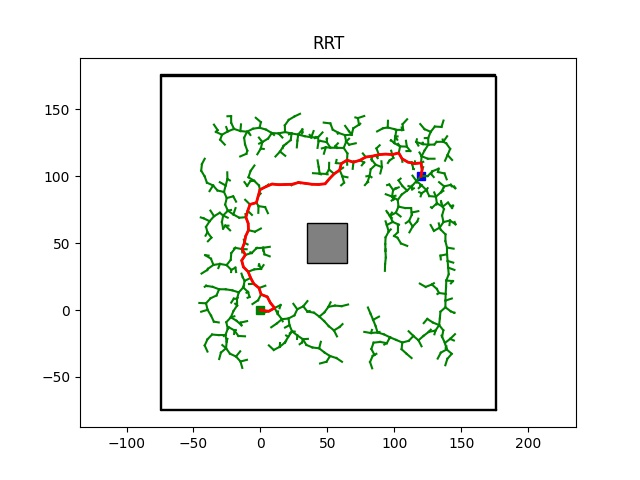
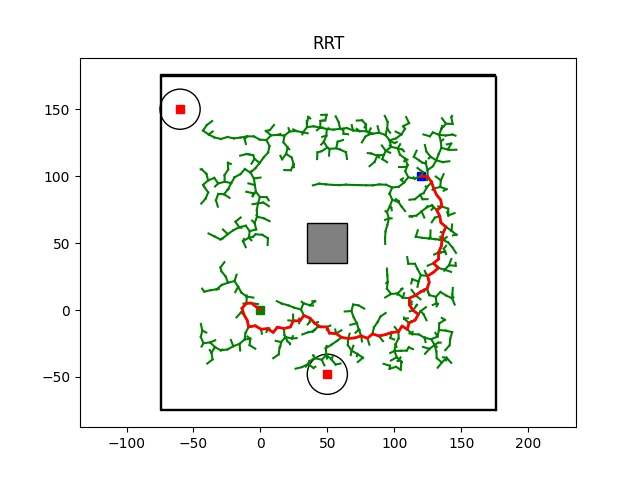
Add MPPI integration in Mat | 10.06

Changed region(s): [[0.25, 0.1875, 0.7188, 0.8438]]

diff --git a/scripts/PathPlanning/Sampling_based_Planning/rrt_2D/my_plotting.py b/scripts/PathPlanning/Sampling_based_Planning/rrt_2D/my_plotting.py
@@ -72,10 +72,18 @@ class Plotting:
         #             facecolor='gray',
         #             fill=True
         #         )
-        #     )
+        #     ),
 
         plt.plot(self.xI[0], self.xI[1], "bs", linewidth=3)
         plt.plot(self.xG[0], self.xG[1], "gs", linewidth=3)
+
+        plt.plot(50, -48, "rs", linewidth=3.)
+        circle = plt.Circle((50, -48), 15, fill=False)
+        ax.add_artist(circle)
+
+        plt.plot(-60, 150, "rs", linewidth=3.)
+        circle = plt.Circle((-60, 150), 15, fill=False)
+        ax.add_artist(circle)
 
         plt.title(name)
         plt.axis("equal")
@@ -123,6 +131,7 @@ class Plotting:
         if len(path) != 0:
             plt.plot([x[0] for x in path], [x[1] for x in path], '-r', linewidth=2)
             plt.pause(0.01)
+            plt.plot(30, 30)
         base_dir = os.path.abspath(os.path.dirname(os.path.dirname(os.path.dirname(os.path.dirname(__file__)))))
         npy_dir = os.path.join(base_dir, "Results_npy/")
         plt.savefig(npy_dir+"/rrt_tree.jpg")

diff --git a/scripts/PathPlanning/Sampling_based_Planning/rrt_2D/my_rrt.py b/scripts/PathPlanning/Sampling_based_Planning/rrt_2D/my_rrt.py
@@ -114,7 +114,7 @@ def main():
 
     start_time = time.time()
 
-    rrt = Rrt(x_start, x_goal, 5, 1e-4, 100000)
+    rrt = Rrt(x_start, x_goal, 5, 1e-5, 100000)
     path, graph, nodes_son_father_list, cost2go_map = rrt.planning()
     # print(cost2go_map)
     # print(len(cost2go_map))

diff --git a/scripts/PathPlanning/Sampling_based_Planning/rrt_2D/rrt.py b/scripts/PathPlanning/Sampling_based_Planning/rrt_2D/rrt.py
@@ -99,7 +99,7 @@ def main():
     x_start = (2, 2)  # Starting node
     x_goal = (49, 24)  # Goal node
 
-    rrt = Rrt(x_start, x_goal, 5, 0.01, 10000)
+    rrt = Rrt(x_start, x_goal, 5, 1e-5, 10000)
     path = rrt.planning()
 
     if path:
